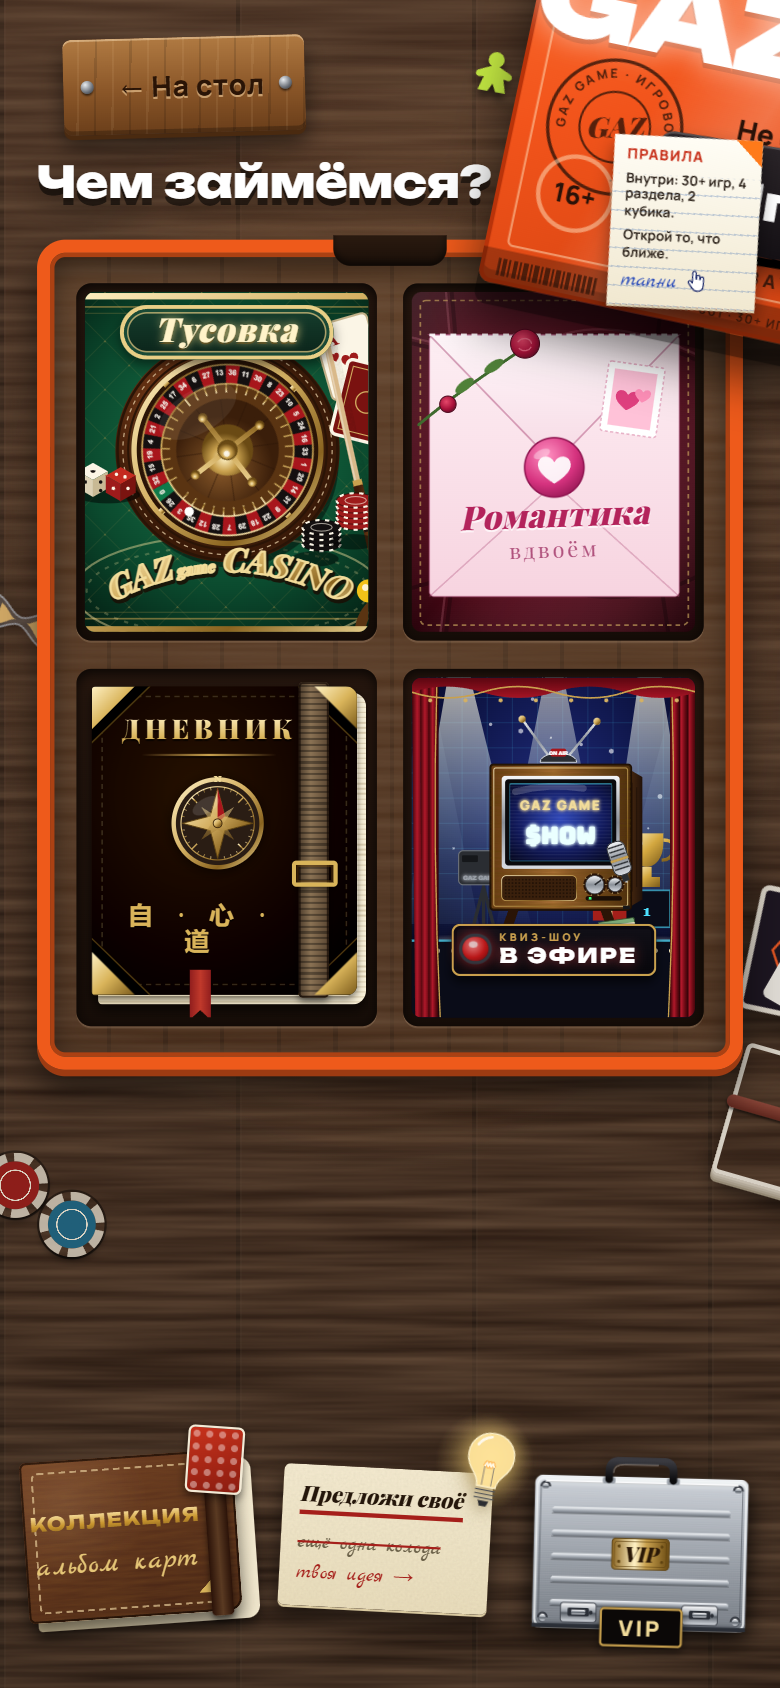
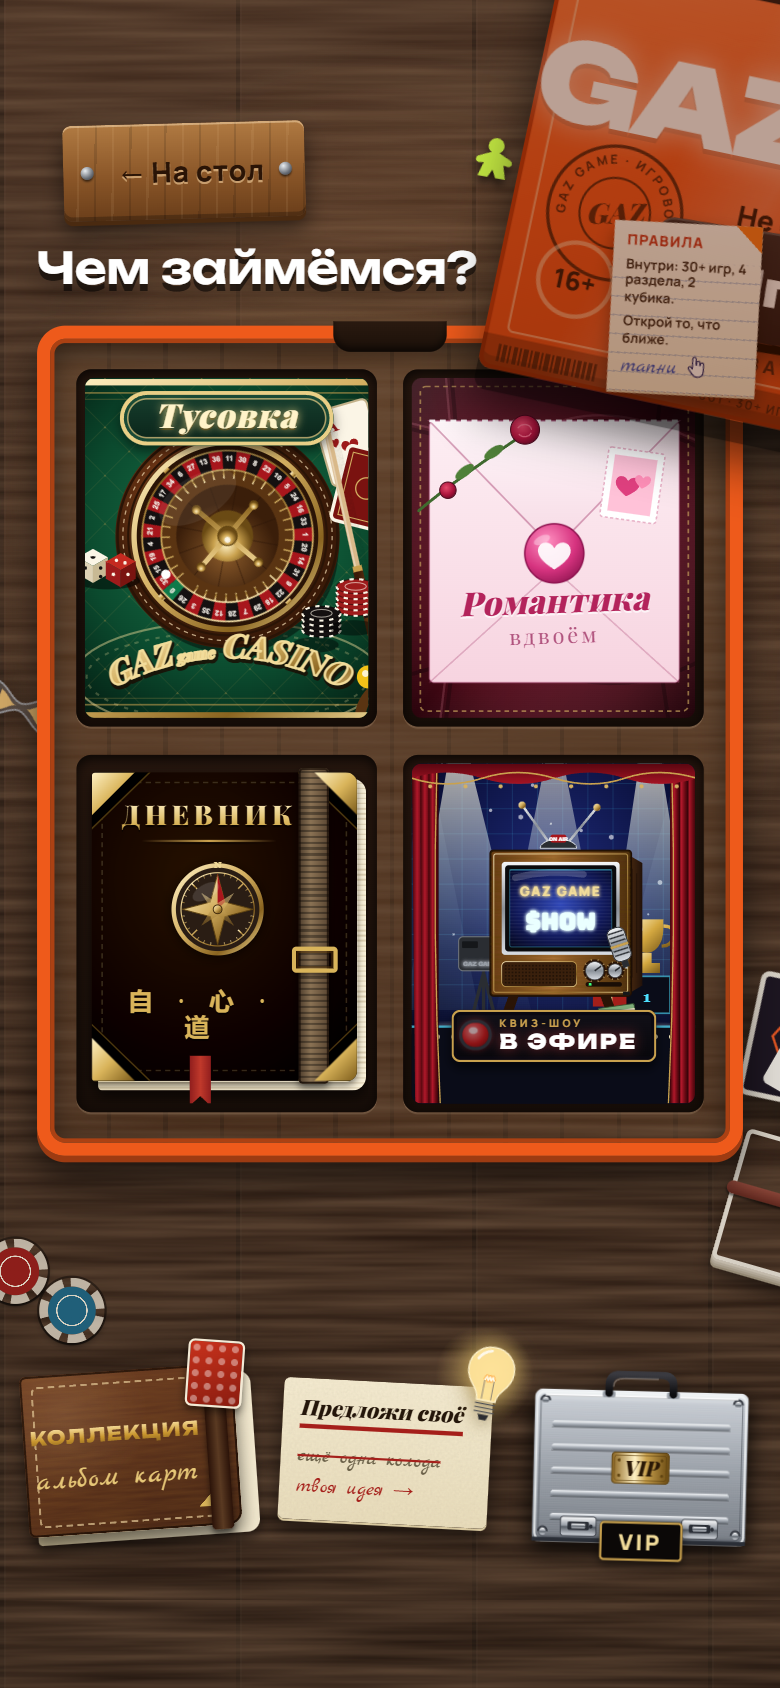
«Чем займёмся?»: крышка классического скина затенена до ржавого как в эталоне, заголовок тоньше, сцена по центру экрана по высоте (на высоком телефоне нет пустой полосы между лотком и нижним рядом); кадры

diff --git a/apps/web/components/table/table-open.css b/apps/web/components/table/table-open.css
@@ -2,7 +2,7 @@
    Рамка лотка — CSS; картинки плиток — public/table/*.webp (вырезаны из макета). */
 
 /* Экран целиком — это «макетная» сцена 358 px шириной (эталон 03), которую OpenBox масштабирует под телефон (--s) и растягивает
-   по высоте (--sh), если экран выше макета. Пропорции предметов не меняются. Анимация масштаба не нужна: это обычный transform. */
+   по высоте (--top), если экран выше макета. Пропорции предметов не меняются. Анимация масштаба не нужна: это обычный transform. */
 .gt-open {
   height: 100dvh;
   min-height: 0;
@@ -11,10 +11,10 @@
 }
 .gt-open .gt-stage {
   position: absolute;
-  top: 0;
+  top: calc(var(--top, 0) * 1px);
   left: 50%;
   width: 358px;
-  height: calc(var(--sh, 695) * 1px);
+  height: 695px;
   margin-left: -179px;
   padding: 14px 17px 20px;
   box-sizing: border-box;
@@ -26,6 +26,15 @@
   visibility: visible;
 }
 /* предметы на столе лежат по макетной сцене 358×695 от верха; высокий экран просто добавляет стол снизу */
+/* крышка классического скина затенена до ржавого, как в эталоне 03 */
+.gt-open[data-box="classic"] .gt-lid::after {
+  content: "";
+  position: absolute;
+  inset: 0;
+  z-index: 2;
+  pointer-events: none;
+  background: rgb(90 28 0 / 0.42);
+}
 .gt-open .gt-decor {
   width: 100%;
   left: 0;
@@ -46,7 +55,7 @@
 }
 .gt-open-title {
   margin: 0 0 4px;
-  font: 800 20px / 1.05 var(--font-display);
+  font: 600 20px / 1.05 var(--font-display);
   color: #fff;
   text-shadow:
     0 3px 0 rgb(0 0 0 / 0.55),

diff --git a/apps/web/components/table/OpenBox.tsx b/apps/web/components/table/OpenBox.tsx
@@ -39,13 +39,14 @@ const STAGE_W = 358;
 const STAGE_H = 695;
 const MAX_SCALE = 1.25;
 
-/** Подгоняет сцену под экран: масштаб по меньшей стороне, высота сцены растёт, если экран выше макета. Возвращает масштаб. */
+/** Подгоняет сцену под экран: масштаб по меньшей стороне, сцена по центру. Возвращает масштаб. */
 function fitStage(rootEl: HTMLElement, stageEl: HTMLElement): number {
   const vw = rootEl.clientWidth;
   const vh = window.innerHeight;
   const s = Math.min(vw / STAGE_W, vh / STAGE_H, MAX_SCALE);
   stageEl.style.setProperty("--s", String(s));
-  stageEl.style.setProperty("--sh", String(vh / s));
+  // сцена стоит по центру экрана по высоте: на высоком телефоне лишний стол делится поровну сверху и снизу, без пустой полосы между лотком и нижним рядом
+  stageEl.style.setProperty("--top", String((vh - STAGE_H * s) / 2));
   stageEl.dataset.ready = "true";
   return s;
 }
